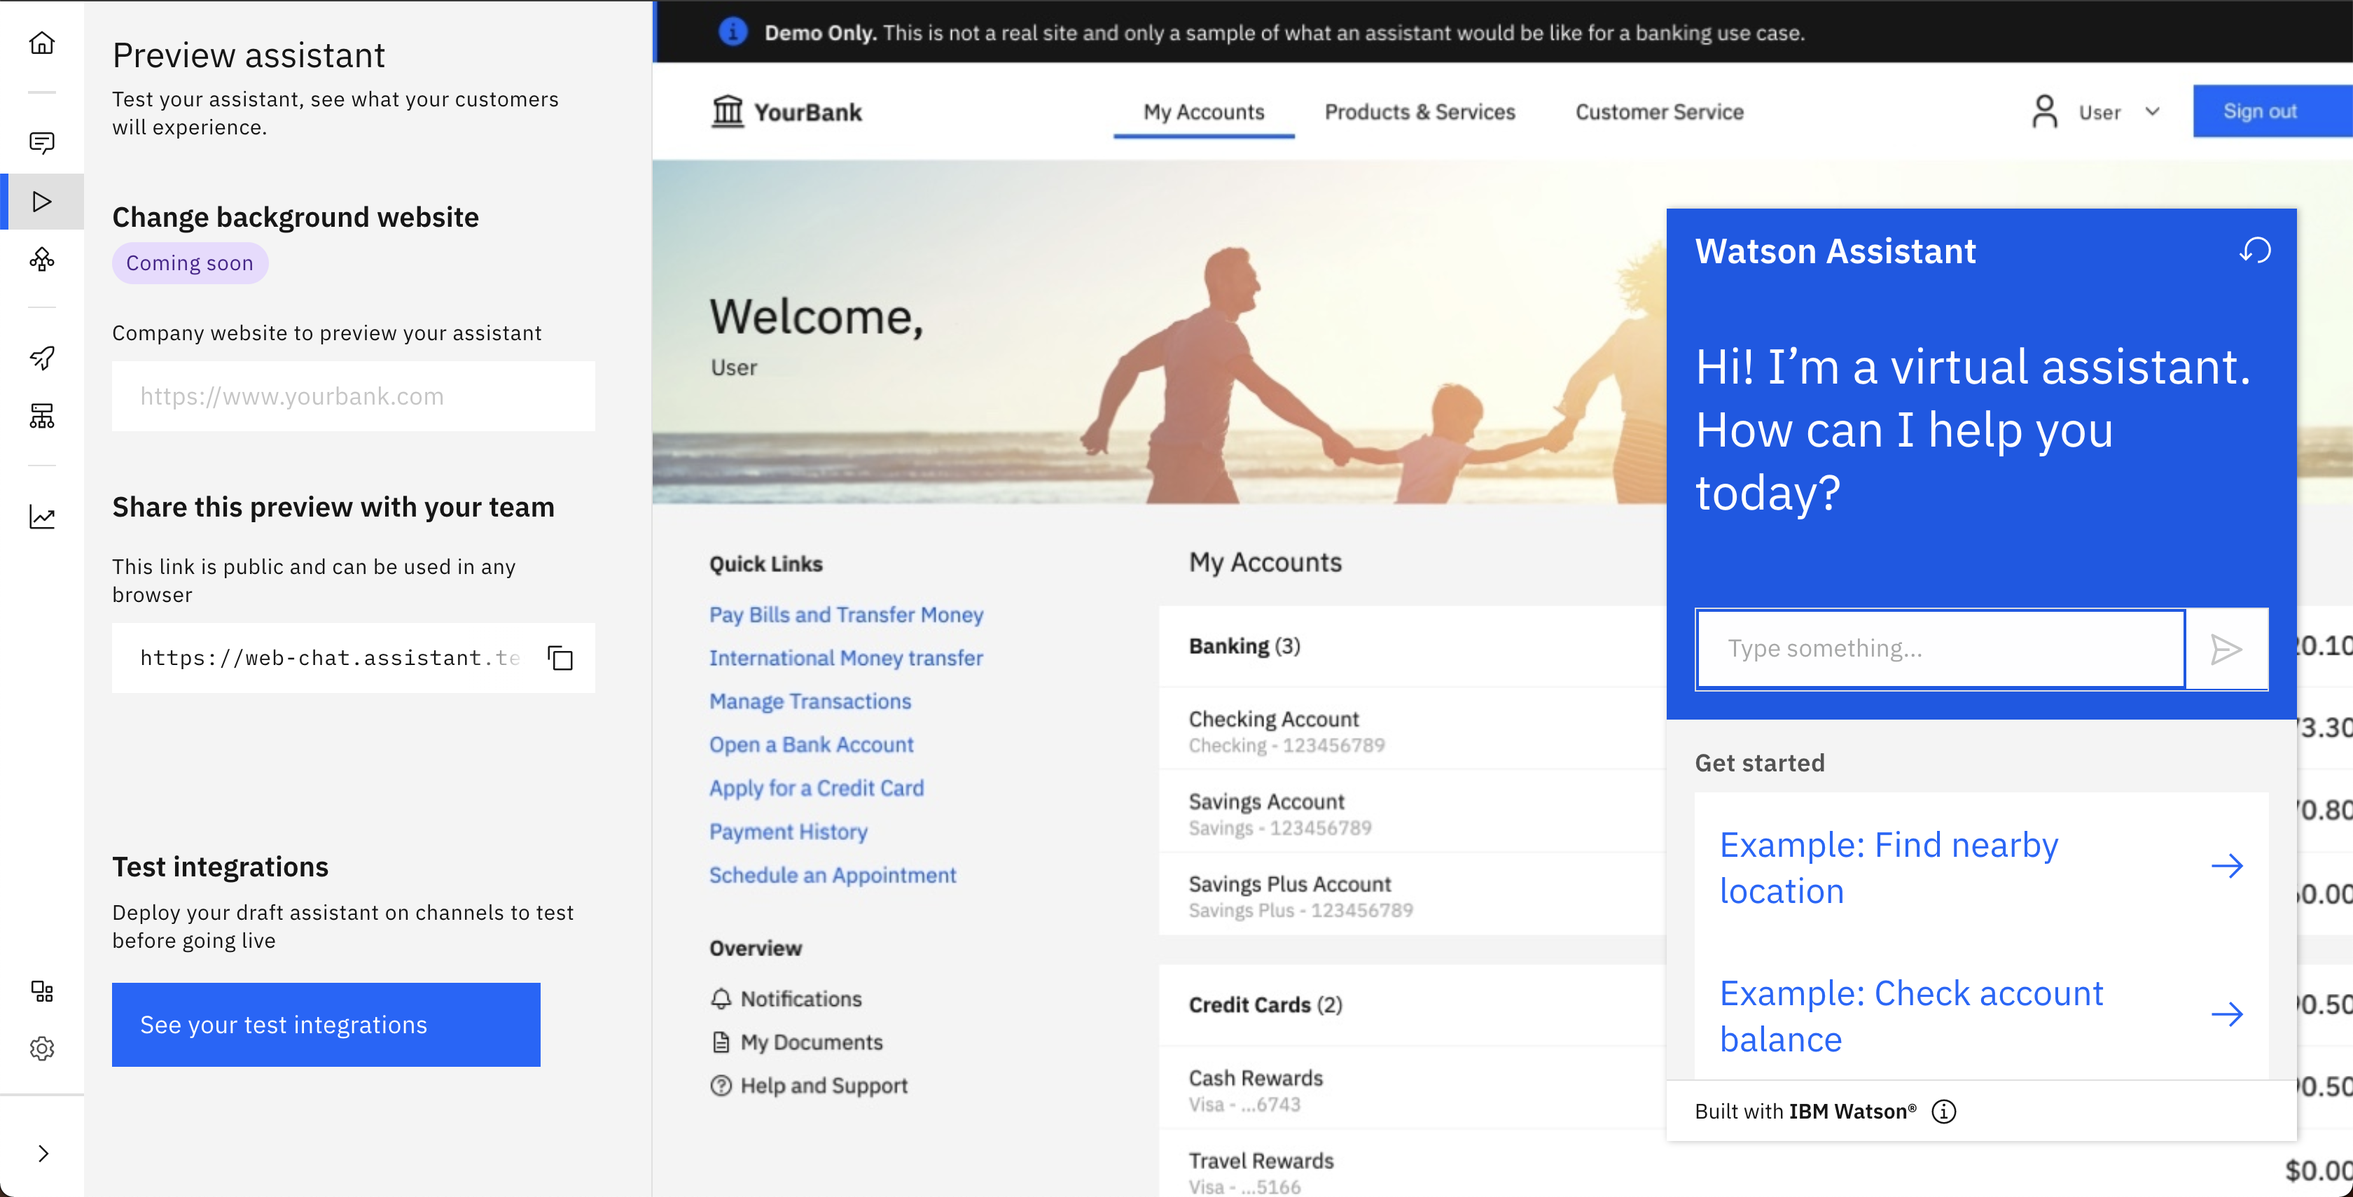
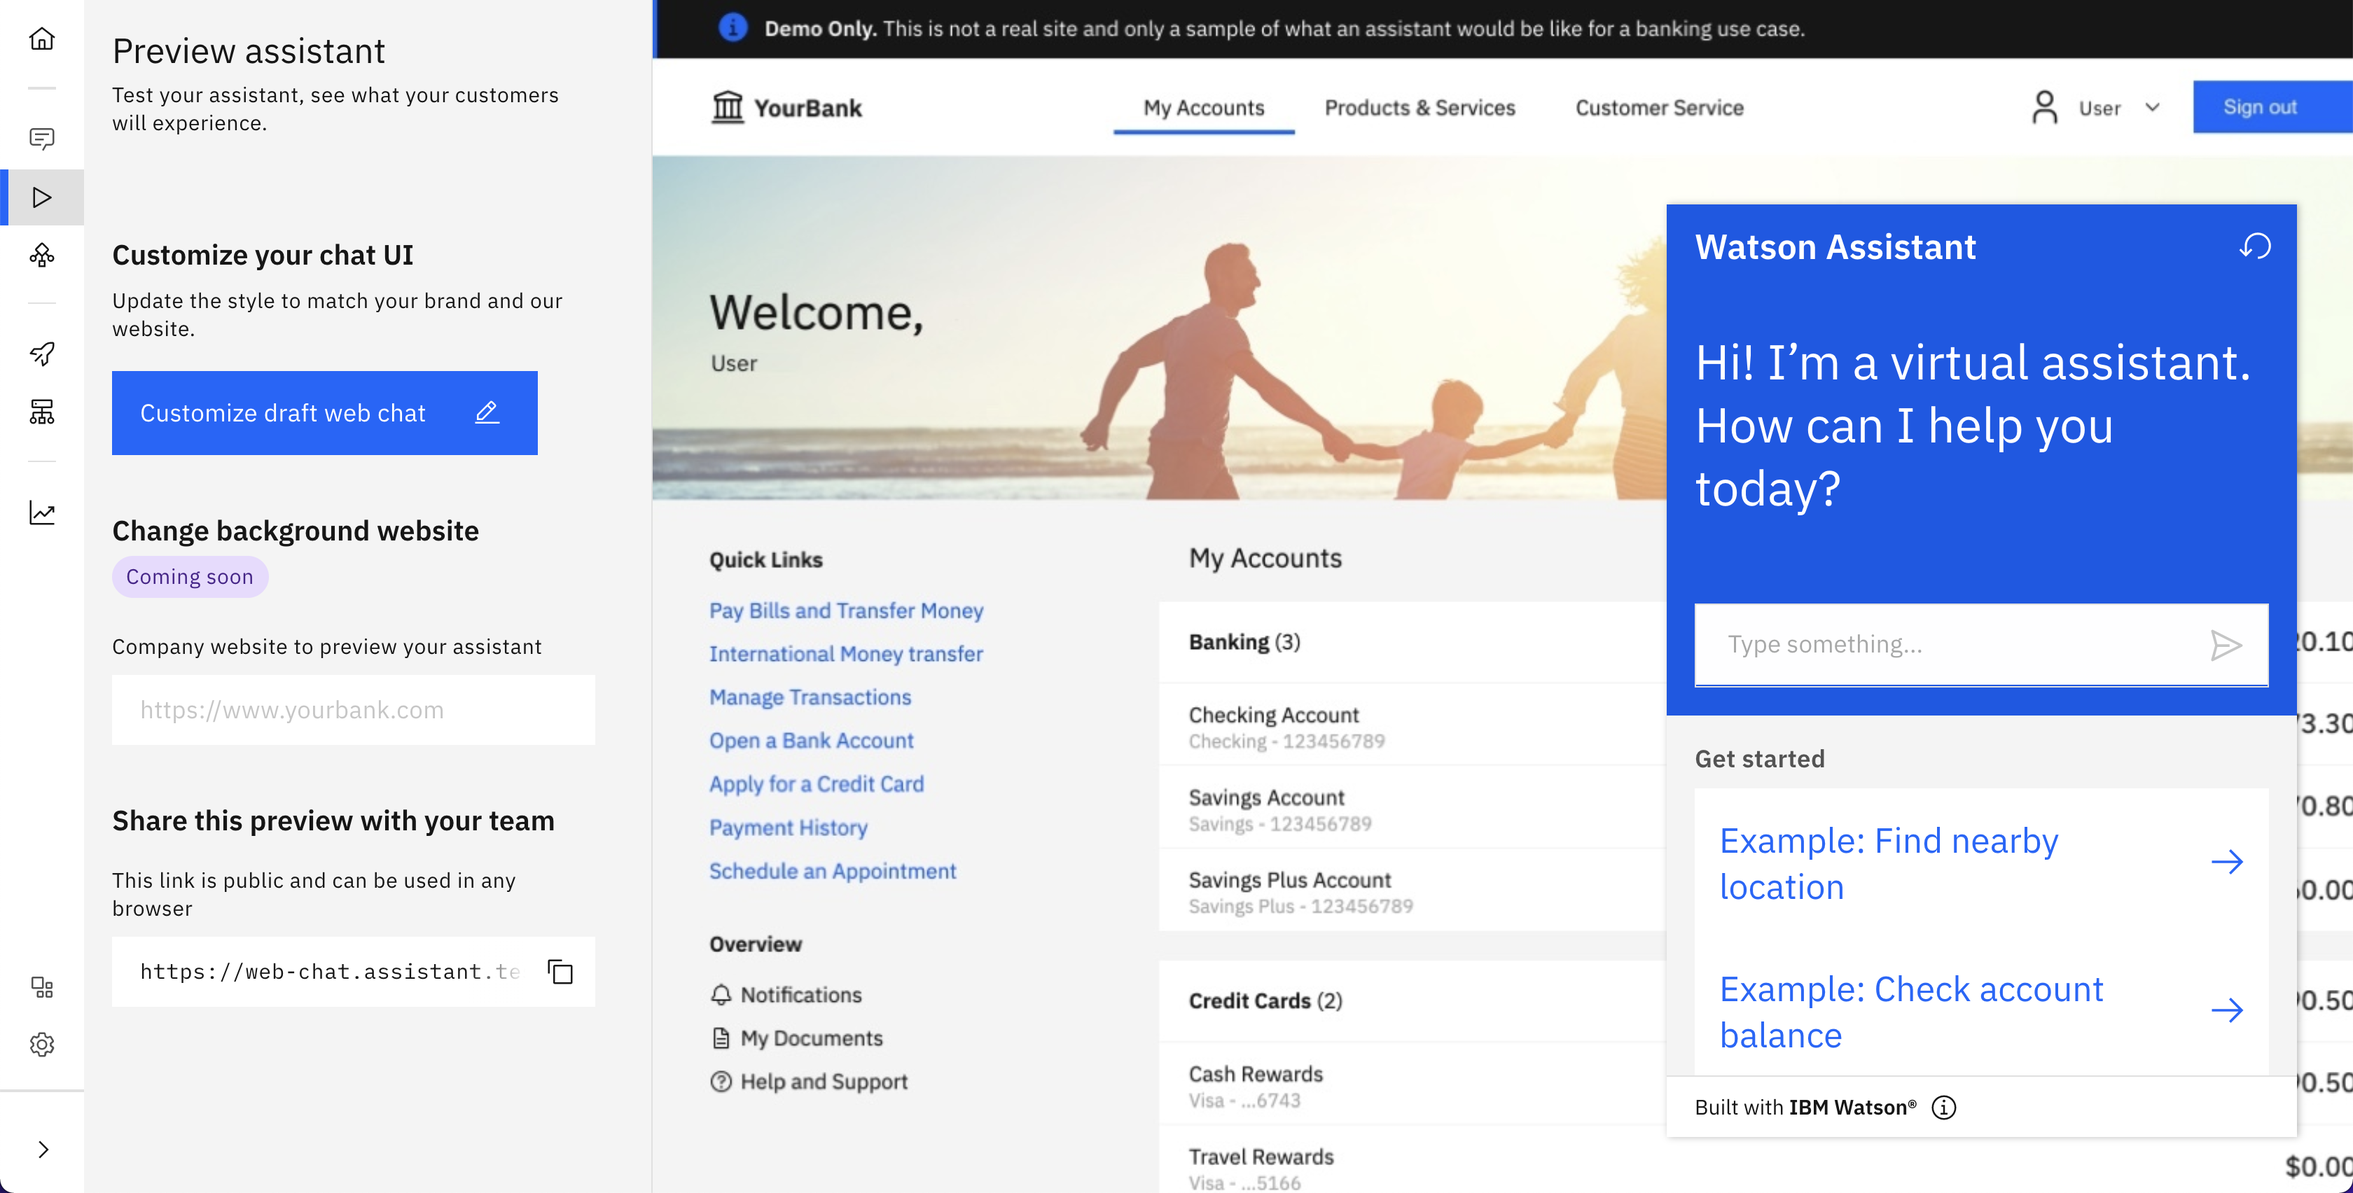
Updates for 11/12 release

diff --git a/publish-deploy-overview.md b/publish-deploy-overview.md
@@ -2,7 +2,7 @@
 
 copyright:
   years: 2021
-lastupdated: "2021-11-05"
+lastupdated: "2021-11-11"
 
 subcollection: watson-assistant
 
@@ -38,7 +38,7 @@ Each assistant consists of three core elements:
 
 - **Content**: The conversation logic and words that are used to respond to your customer. Content is required for every assistant.
 - **Channels**: The location where your assistant interacts with your users (for example, over the phone, on a website, or in Slack). At least one channel is required for every assistant.
-- **Integrations**: Add-ons to the end experience that help solve specific user problems (for example, connecting to a human agent or searching existing help content). Integrations are not required for an assistant, but they are recommended.
+- **Extensions**: Add-ons to the end experience that help solve specific user problems, for example, searching existing help content.
 
 These three elements evolve as you build, edit, and update your assistant. In general, follow this high-level build, deploy, and publish process through the life of your assistant:
 
@@ -51,18 +51,16 @@ These three elements evolve as you build, edit, and update your assistant. In ge
 ## Environments
 {: #environments}
 
-You can group your work in separate containers that are called _environments_. You can think of an environment as a space within the product that contains a version of your work. Each environment can contain its own content, channels, and integrations. As you build and evolve your assistant, you can take snapshots of these items and move them from one environment to another. Environments also have their own IDs, URLs, and service credentials that can be referenced by external services.
+You can group your work in separate containers that are called _environments_. You can think of an environment as a space within the product that contains a version of your work. Each environment can contain its own content, channels, and extensions. As you build and evolve your assistant, you can take snapshots of these items and move them from one environment to another. Environments also have their own IDs, URLs, and service credentials that can be referenced by external services.
 
 Each new assistant comes with two environments: the draft environment and the live environment. The draft environment can be managed from the **Draft environment** page, and the live environment can be managed from the **Live environment** page. Your users interact with assistants on the live environment and cannot interact with assistants on the draft environment. The separation of these two environments allows you to ensure that any in-progress updates to the assistant do not get published. You do not want users to stumble upon an incomplete action that leads them to a dead end.
 
 ## The draft environment
-Use the **Draft environment** page to manage the draft environment. Your draft content is permanently connected to the draft environment, and you can preview this content from your customers' perspective on the **Preview** page.
-
-The draft environment's integrations can be managed from the **Preview** page. Use these integrations for testing, not for going live. The preview panel shows what the web chat channel looks like on a sample webpage. The preview panel shows draft content, draft integrations, and any changes to the web chat settings.
+Use the **Draft environment** page to manage the draft environment. Your draft content is permanently connected to the draft environment, and you can preview this content from your customers' perspective on the **Preview** page. From the **Preview** page, you can also manage your draft web chat channel. All other draft environment integrations are managed from the **Draft environment** page. Use your draft integrations for testing, not for going live. These integrations are unique to the draft environment, and changes to draft integrations don't affect live integrations.
 
 ![Image of the Publish page](images/preview-page.png)
 
-To access the draft integrations, click **See your test integrations** from the **Preview** page. From the **Test integrations** panel, you can review integrations and test new configurations. These integrations are unique to the draft environment, and changes to draft integrations don't affect live integrations. To share a preview of your draft content, copy and paste the share link on the left side of the **Preview** page.
+The **Assistant preview** pane on the **Preview** page shows what the web chat channel looks like on a sample webpage. This preview pane shows draft content, draft integrations, and any changes to the web chat settings. To share a preview of your draft content, copy and paste the share link on the left side of the **Preview** page.
 
 ## Publishing
 When your content is ready to be exposed to your customers, you can publish from the **Publish** page. When you publish, you use the **Publish** page to move saved content from the draft environment to the live environment. Each time you publish, you create a new version name, such as V1 or V2.
@@ -71,11 +69,7 @@ When your content is ready to be exposed to your customers, you can publish from
 
 When you publish your content, Watson Assistant creates a snapshot of the draft content and connects that snapshot to the live environment. This snapshot contains all of the content from actions, including settings and variables. Snapshots do not contain integration configurations or environment settings. Integration configurations and environment settings must be configured manually in each environment.
 
-You can make edits to your live environment either by editing your draft environment and publishing or by reverting the version of your content on your live environment to an earlier version. By default, the most recently published version of your content is connected to the live environment. At any time, you can revert to an earlier version by clicking the **Revert** icon next to the **Publish** button.
-
-![Image of the Revert unpublished content window](images/revert-unpublished-content.png)
-
-The number of versions that can be maintained before they are deleted depends on the type of plan you have. If you reach the plan limit of versions you can have, the oldest version that isn't live is deleted when a new version is published.
+You can make edits to your live environment either by editing your draft environment and publishing or by switching the version of your content on your live environment to another version. By default, the most recently published version of your content is connected to the live environment. The number of versions that can be maintained before they are deleted depends on the type of plan you have. If you reach the plan limit of versions you can have, the oldest version that isn't live is deleted when a new version is published.
 
 ## The live environment
 Use the **Live environment** page to manage the live environment. This page indicates which content is live in the assistant and which channels that content is connected to. The left side of the page displays the channels where content is deployed, or where customers can interact with the assistant. The right side of the page displays the resolution methods, or how the assistant responds to customer questions or requests.

diff --git a/analytics-action-completion.md b/analytics-action-completion.md
@@ -2,7 +2,7 @@
 
 copyright:
   years: 2021
-lastupdated: "2021-10-25"
+lastupdated: "2021-11-11"
 
 subcollection: watson-assistant
 
@@ -63,17 +63,17 @@ An action is considered incomplete for these reasons:
 ## Improving completion
 {: #analytics-improving-completion}
 
-To help you identify actions that need improvement, the **Action completion** page is organized into a **How often** chart and an **Actions** table. The **How often** chart shows the number of complete and incomplete actions during a time frame. The **Actions** table provides number of requests, total incomplete, and completion percentage per action.
+To help you identify actions that need improvement, the **Action completion** page is organized into a **How often** chart and an **Actions** table. The **How often** chart shows either the percentage of complete actions or the number of complete and incomplete actions during a timeframe. Use the icon in the upper right of the chart to toggle between a line chart that shows the percentage of complete actions or a bar chart that shows the number of complete and incomplete actions. The **Actions** table provides number of requests, total incomplete, and completion percentage per action.
 
 ![Action completion](images/analytics-action-completion.png)
 
-You can use the **Actions** table to focus on improving the completion of your actions. **Total incomplete** results provide a focus area where you can make the biggest impact. The actions with the highest number of incompletions means these are the actions with the most users unable to get their questions answered or requests resolved.
+You can use the **Actions** table to focus on improving the completion of your actions. **Incomplete** results provide a focus area where you can make the biggest impact. The actions with the highest number of incompletions means these are the actions with the most users unable to get their questions answered or requests resolved.
 
 To work on a specific action, click on the action name in the table. A page opens with completion details for that single action.
 
 ![Action page](images/analytics-single-action.png)
 
-The *Incomplete* and *Complete* tabs provide details by timeframe. The Incomplete tab bar chart shows data for the four incompletion reasons. The Complete tab bar chart is organized by conversations either completed by assistant or completed by a planned `connect to agent` response.
+The *Incomplete* and *Complete* tabs provide details by timeframe. The *Incomplete* tab bar chart shows data for the four incompletion reasons. The *Complete* tab bar chart is organized by conversations either completed by the assistant or completed by a planned `connect to agent` response.
 
 As you click on each tab, a table below the chart shows the list of either incomplete or complete requests. To explore individual requests in detail, you can click on each one. A panel opens showing the full back and forth between your customer and the assistant, including step interactions. The panel also provides a summary of how many requests there were, how many were recognized, whether search was initiated, and the duration of the conversation.
 
@@ -82,6 +82,6 @@ As you click on each tab, a table below the chart shows the list of either incom
 ### Editing an action
 {: #analytics-edit-action}
 
-Once you decide on changes you want to make to improve the action, click the edit icon in the header for the single action, which opens your action for further work on its steps.
+After you decide on changes you want to make to improve the action, click the edit icon in the header for the single action, which opens your action for further work on its steps.
 
 ![Edit action](images/analytics-completion-edit-action.png)

diff --git a/preview-share.md b/preview-share.md
@@ -2,7 +2,7 @@
 
 copyright:
   years: 2021
-lastupdated: "2021-11-05"
+lastupdated: "2021-11-11"
 
 subcollection: watson-assistant
 
@@ -39,20 +39,18 @@ As you edit your content from the **Actions** page, your changes are automatical
 ![GIF of a user saving integrations](images/integrations.gif)
 
 ## The Preview page
-Use the **Preview** page to test your assistant with your team. From this page, you can experience your assistant from your customer's perspective. On the **Preview** page, the **Assistant preview** window is the interactive web chat widget where you can test out your assistant as if you were a customer. The content contained in the assistant is the content that you built into your actions or set up with the search integration. On the **Preview** page, you also find the following elements:
+Use the **Preview** page to test your assistant with your team. From this page, you can experience your assistant from your customer's perspective. On the **Preview** page, the **Assistant preview** pane is the interactive web chat widget where you can test out your assistant as if you were a customer. The content contained in the assistant is the content that you built into your actions or set up with the search integration. On the **Preview** page, you also find the following elements:
+- Web chat channel configuration: Customize your draft web chat channel to match your brand or website. 
 - Share link: Share an unauthenticated version of your assistant with your colleagues by sending them a link.
-- **Test integrations** panel: Manage the different integrations that you connected to your draft environment.
 <!-- - Website background input: Change the background of the page so you can see what your assistant looks like in different website contexts. -->
 
 The following image shows what the web chat integration with {{site.data.keyword.conversationshort}} looks like on an example banking website:
 
-![Image of the Preview tab](images/preview-tab.png)
+![Image of the Preview page](images/preview-page.png)
 
-## Previewing more than one channel
-Test integrations provide the ability to test channels before you go live with them. You can add channels to the assistant by going to the **Integrations** catalog. For more information about adding integrations to your assistant, see [Adding integrations](/docs/watson-assistant?topic=watson-assistant-deploy-integration-add).
+## Previewing multiple channel integrations
+From the **Preview** page, you have the ability to test channels before you go live with them. For more information about adding channels to your assistant, see [Adding integrations](/docs/watson-assistant?topic=watson-assistant-deploy-integration-add). After you add channels to the assistant, they are accessible from the **Draft environment** page:
 
-After you add channels to the assistant, they are accessible from the **Test integrations** panel on the the **Preview** page. From the **Test integrations** panel, open an integration to view and update its configuration.
-
-![Image of the Test integrations panel](images/test-integrations-panel.png)
+![Image of the Draft environment panel](images/draft-environment-page.png)
 
 These channels can be configured and deployed to test different mediums, such as websites and Slack channels, to ensure that your content appears in the way that you want it to. Do not use these channels for live deployments because they reflect the most recently edited content, not your published content.

diff --git a/analytics-overview.md b/analytics-overview.md
@@ -2,7 +2,7 @@
 
 copyright:
   years: 2018, 2021
-lastupdated: "2021-10-25"
+lastupdated: "2021-11-11"
 
 subcollection: watson-assistant
 
@@ -64,12 +64,12 @@ These three traffic metrics -- *unique users*, *conversations*, and *user reques
 
 The *completion* and *recognition* charts provide information about the actions in your assistant.
 
-![Completion and recognition](images/analytics-completion-recognition.png)
+![Completion and recognition](images/analytics-completion-recognition-2.png)
 
 ### Completion
 {: analytics-completion-section}
 
-*Completion* is the measurement of how often users are able to successfully get through all steps of an action. 
+*Completion* is the measurement of how often users are able to successfully get through all steps of an action.
 
 Your assistant measures when someone reaches the final step of an action. The completion chart provides an overview of all the actions you have built and how many of these are being completed or not.
 
@@ -93,10 +93,8 @@ These most/least cards help you to quickly identify specific actions that might 
 
 ![Most frequent, least frequent, and least completed](images/analytics-most-least.png)
 
-*Most frequent actions* shows the actions that have the most recognized requests matched with that action. 
+*Most frequent actions* shows the actions that have the most recognized requests matched with that action.
 
 *Least frequent actions* is the exact opposite of *most frequent*. It can help you identify actions that possibly have poor training and are not matching well to actual requests from your users.
 
 *Least completed actions* shows a list of actions with the lowest completion rate, by percentage. This measurement doesn't take traffic into account. This can be another good indication of actions where maybe the flow or content can be improved, and you can spend time investigating.
-
-

diff --git a/deploy-sms.md b/deploy-sms.md
@@ -2,7 +2,7 @@
 
 copyright:
   years: 2020, 2021
-lastupdated: "2021-10-07"
+lastupdated: "2021-11-11"
 
 subcollection: watson-assistant
 
@@ -73,6 +73,8 @@ To set up the integration, complete the following steps:
 1.  Enter your **Account SID** information. Click **Next** to go to Step 2 of your *SMS with Twilio* integration setup.
 
 1.  Enter your **Auth token** information. Click **Next** to go to Step 3 of your *SMS with Twilio* integration setup.
+
+1.  **Optional**: Enter the phone number that your Twilio account uses for SMS integration. The webhook URI is used to transfer messages, but if you add your phone number in this optional field, you can easily refer to it later. Click **Next** to go to Step 4 of your *SMS with Twilio* integration setup.
 
 1.  Copy the value from the **Webhook URI** field.
 
